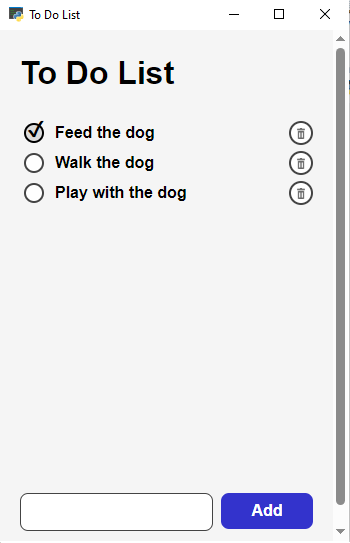
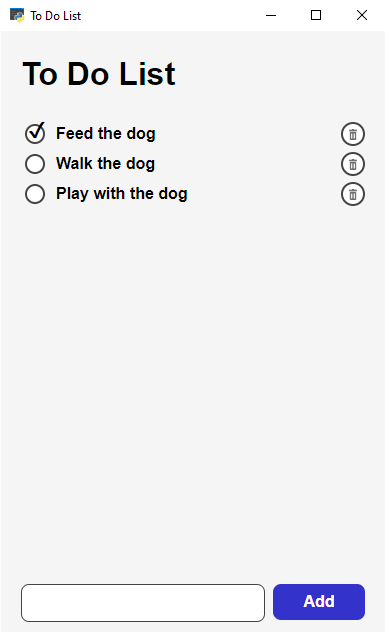
screenshots update

diff --git a/assets/styles.css b/assets/styles.css
@@ -1,6 +1,6 @@
 html,
 body {
-    height: 100%;
+    margin: 0;
 }
 
 header {
@@ -12,6 +12,7 @@ header {
     padding: 10px 20px;
     box-sizing: border-box;
     z-index: 1;
+    box-sizing: border-box;
 }
 
 body {
@@ -25,16 +26,9 @@ button {
     cursor: pointer;
 }
 
-#main {
-    display: flex;
-    flex-direction: column;
-    height: 100%;
-}
-
 #list {
-    height: 100%;
-    overflow-y: auto;
-    padding: 80px 0 60px
+    padding: 80px 0 60px;
+    box-sizing: border-box;
 }
 
 .listElement {
